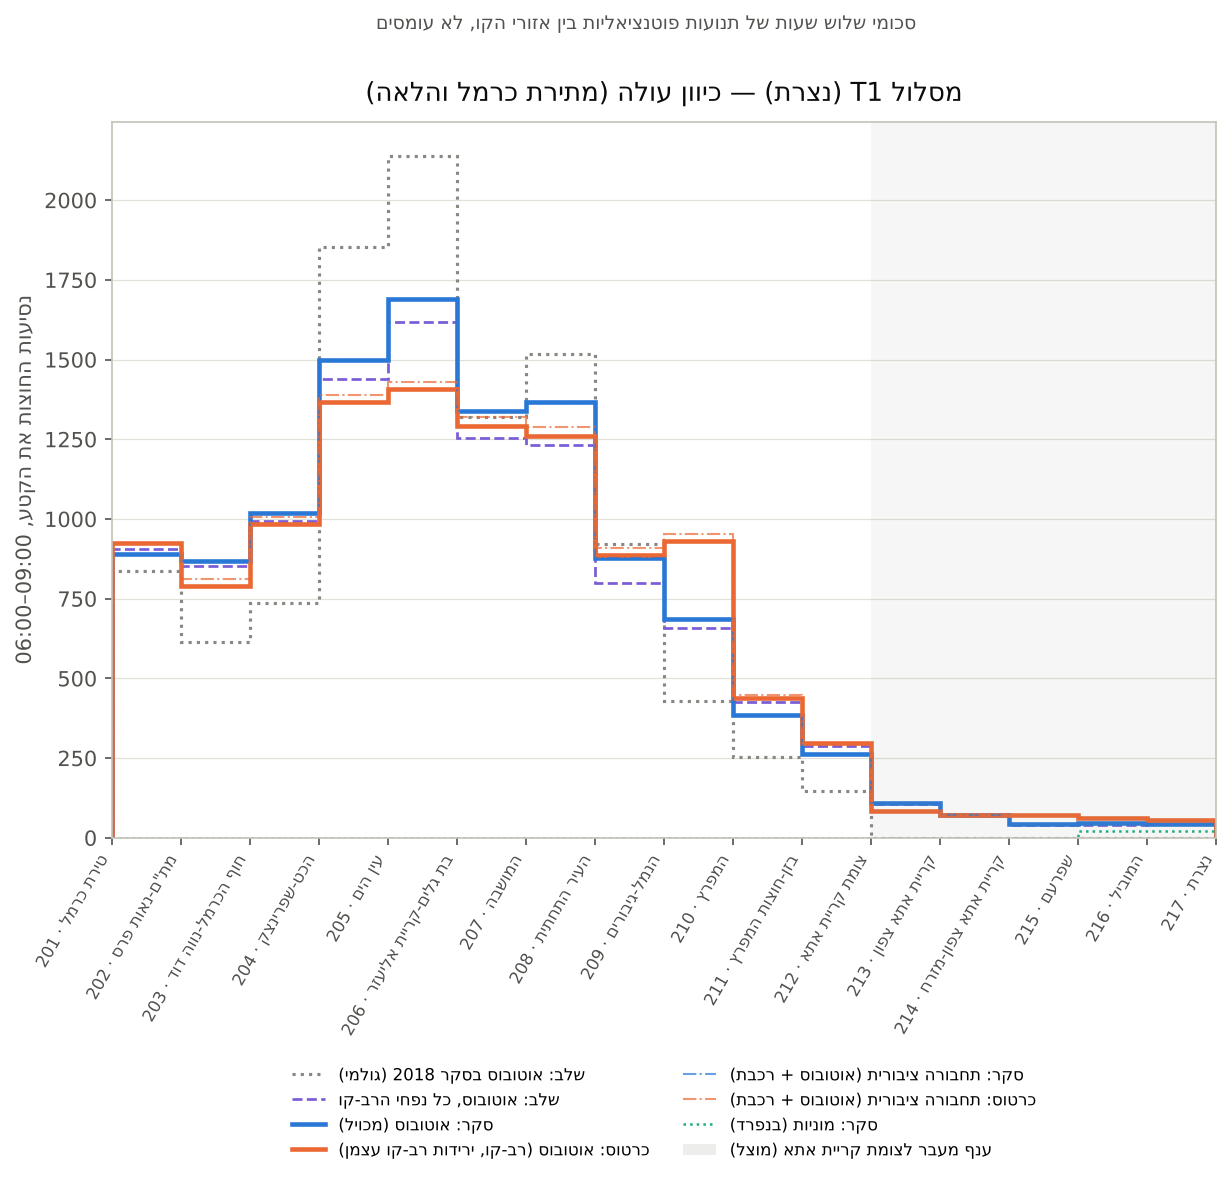
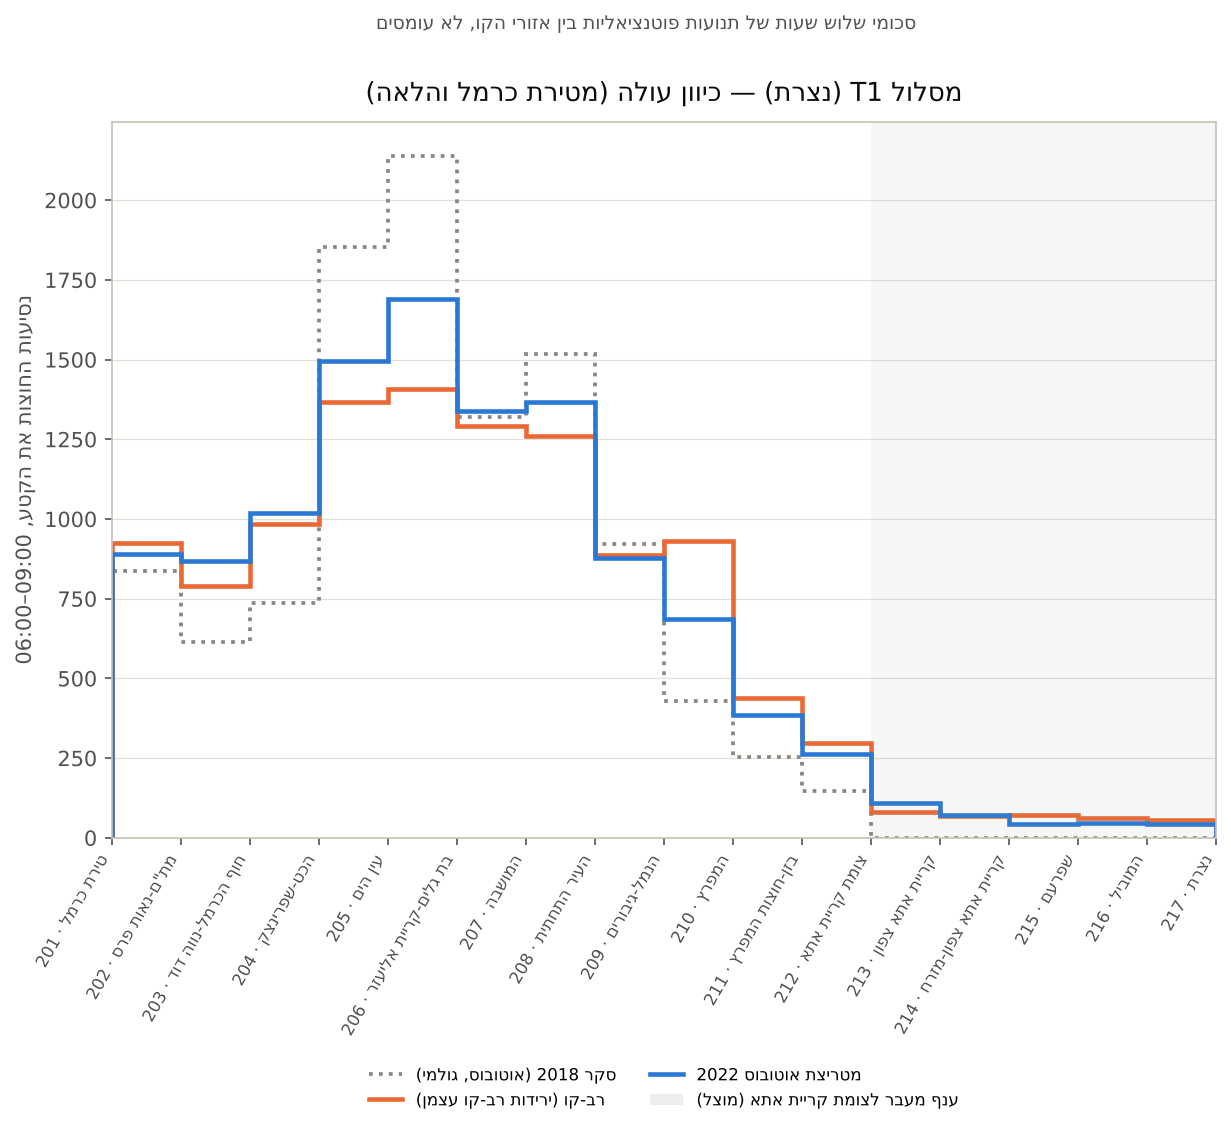
Simplify Hebrew figure 3.2 to three series; fix 'מטירת כרמל' wording
Claude-Session: https://claude.ai/code/session_01Aezn8uQ9h8Pdrijek1evD5

diff --git a/tools/make_fig_3_2_he.py b/tools/make_fig_3_2_he.py
@@ -19,14 +19,10 @@ CODE = {'TiratCarmel': 201, 'Matam-NeotPeres': 202, 'HofCarmel-NeveDavid': 203, 
         'LowerCity': 208, 'Namal-Giborim': 209, 'Hamifrats': 210, 'Bazan-Hutsot': 211, 'TsometKiryatAta': 212, 'KiryatAta North': 213, 'KiryatAta North-East': 214,
         'Shefaram': 215, 'Hamovil': 216, 'Nazareth': 217, 'KiryatHaim': 104, 'KiryatBialik Center': 103, 'Kiryon': 102, 'TsurShalom': 101, 'KiryatHaim West': 304,
         'KiryatYam B+C': 303, 'KiryatYam A': 302, 'SavyoneyYam': 301}
-SERIES = [('step: survey bus 2018 (raw)', 'שלב: אוטובוס בסקר 2018 (גולמי)', MUTED, ':', 1.5, 1.0),
-          ('step: bus, all-RavKav volumes', 'שלב: אוטובוס, כל נפחי הרב-קו', PURPLE, '--', 1.3, 1.0),
-          ('survey: bus (calibrated)', 'סקר: אוטובוס (מכויל)', BLUE, '-', 2.2, 1.0),
-          ('ticketing: bus (RavKav, own alightings)', 'כרטוס: אוטובוס (רב-קו, ירידות רב-קו עצמן)', ORANGE, '-', 2.2, 1.0),
-          ('survey transit', 'סקר: תחבורה ציבורית (אוטובוס + רכבת)', BLUE, '-.', 1.0, 0.7),
-          ('ticketing transit', 'כרטוס: תחבורה ציבורית (אוטובוס + רכבת)', ORANGE, '-.', 1.0, 0.7),
-          ('survey: taxi-type', 'סקר: מוניות (בנפרד)', AQUA, ':', 1.2, 1.0)]
-DIR = {'up': 'כיוון עולה (מתירת כרמל והלאה)', 'down': 'כיוון יורד (לכיוון טירת כרמל)'}
+SERIES = [('step: survey bus 2018 (raw)', 'סקר 2018 (אוטובוס, גולמי)', MUTED, ':', 1.8, 1.0),
+          ('ticketing: bus (RavKav, own alightings)', 'רב-קו (ירידות רב-קו עצמן)', ORANGE, '-', 2.2, 1.0),
+          ('survey: bus (calibrated)', 'מטריצת אוטובוס 2022', BLUE, '-', 2.2, 1.0)]
+DIR = {'up': 'כיוון עולה (מטירת כרמל והלאה)', 'down': 'כיוון יורד (לכיוון טירת כרמל)'}
 SCOPE = {'T1': 'מסלול T1 (נצרת)', 'T2': 'מסלול T2 (הקריות)', 'T3': 'מסלול T3 (קריית ים)', 'network': 'רשת העץ (24 קטעים)'}
 N_TRUNK = 12                                              # areas 201-212, common to the three routes; the branches (shaded) start at the last of them
 
